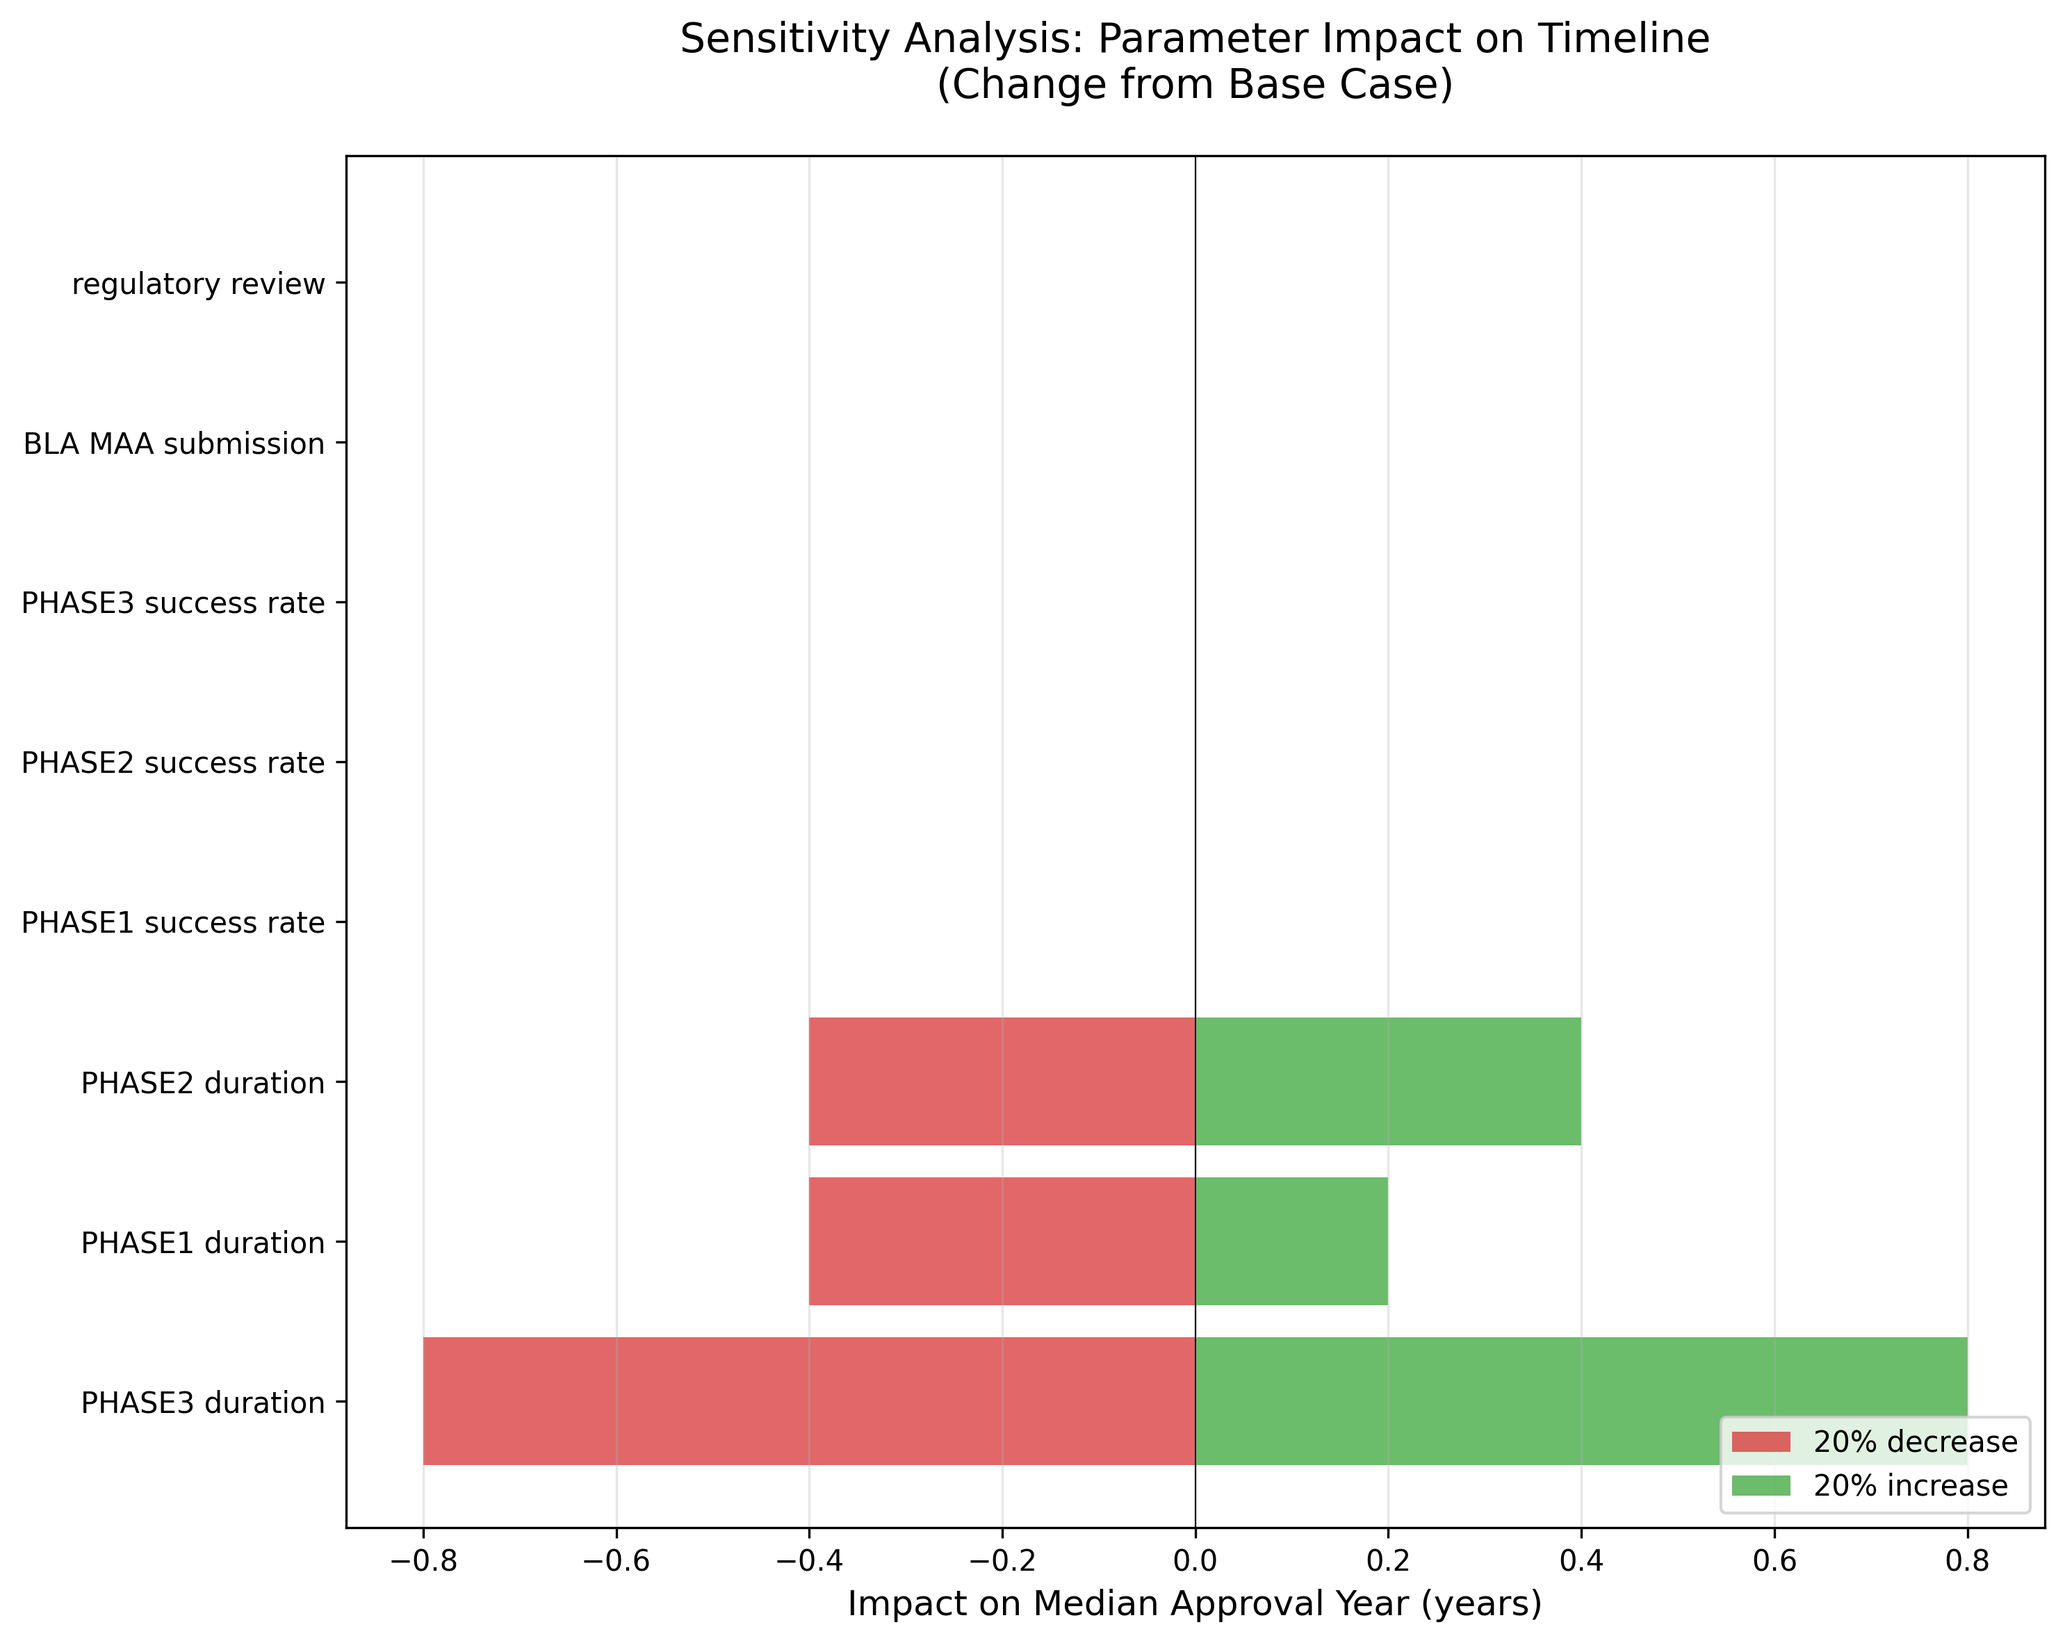
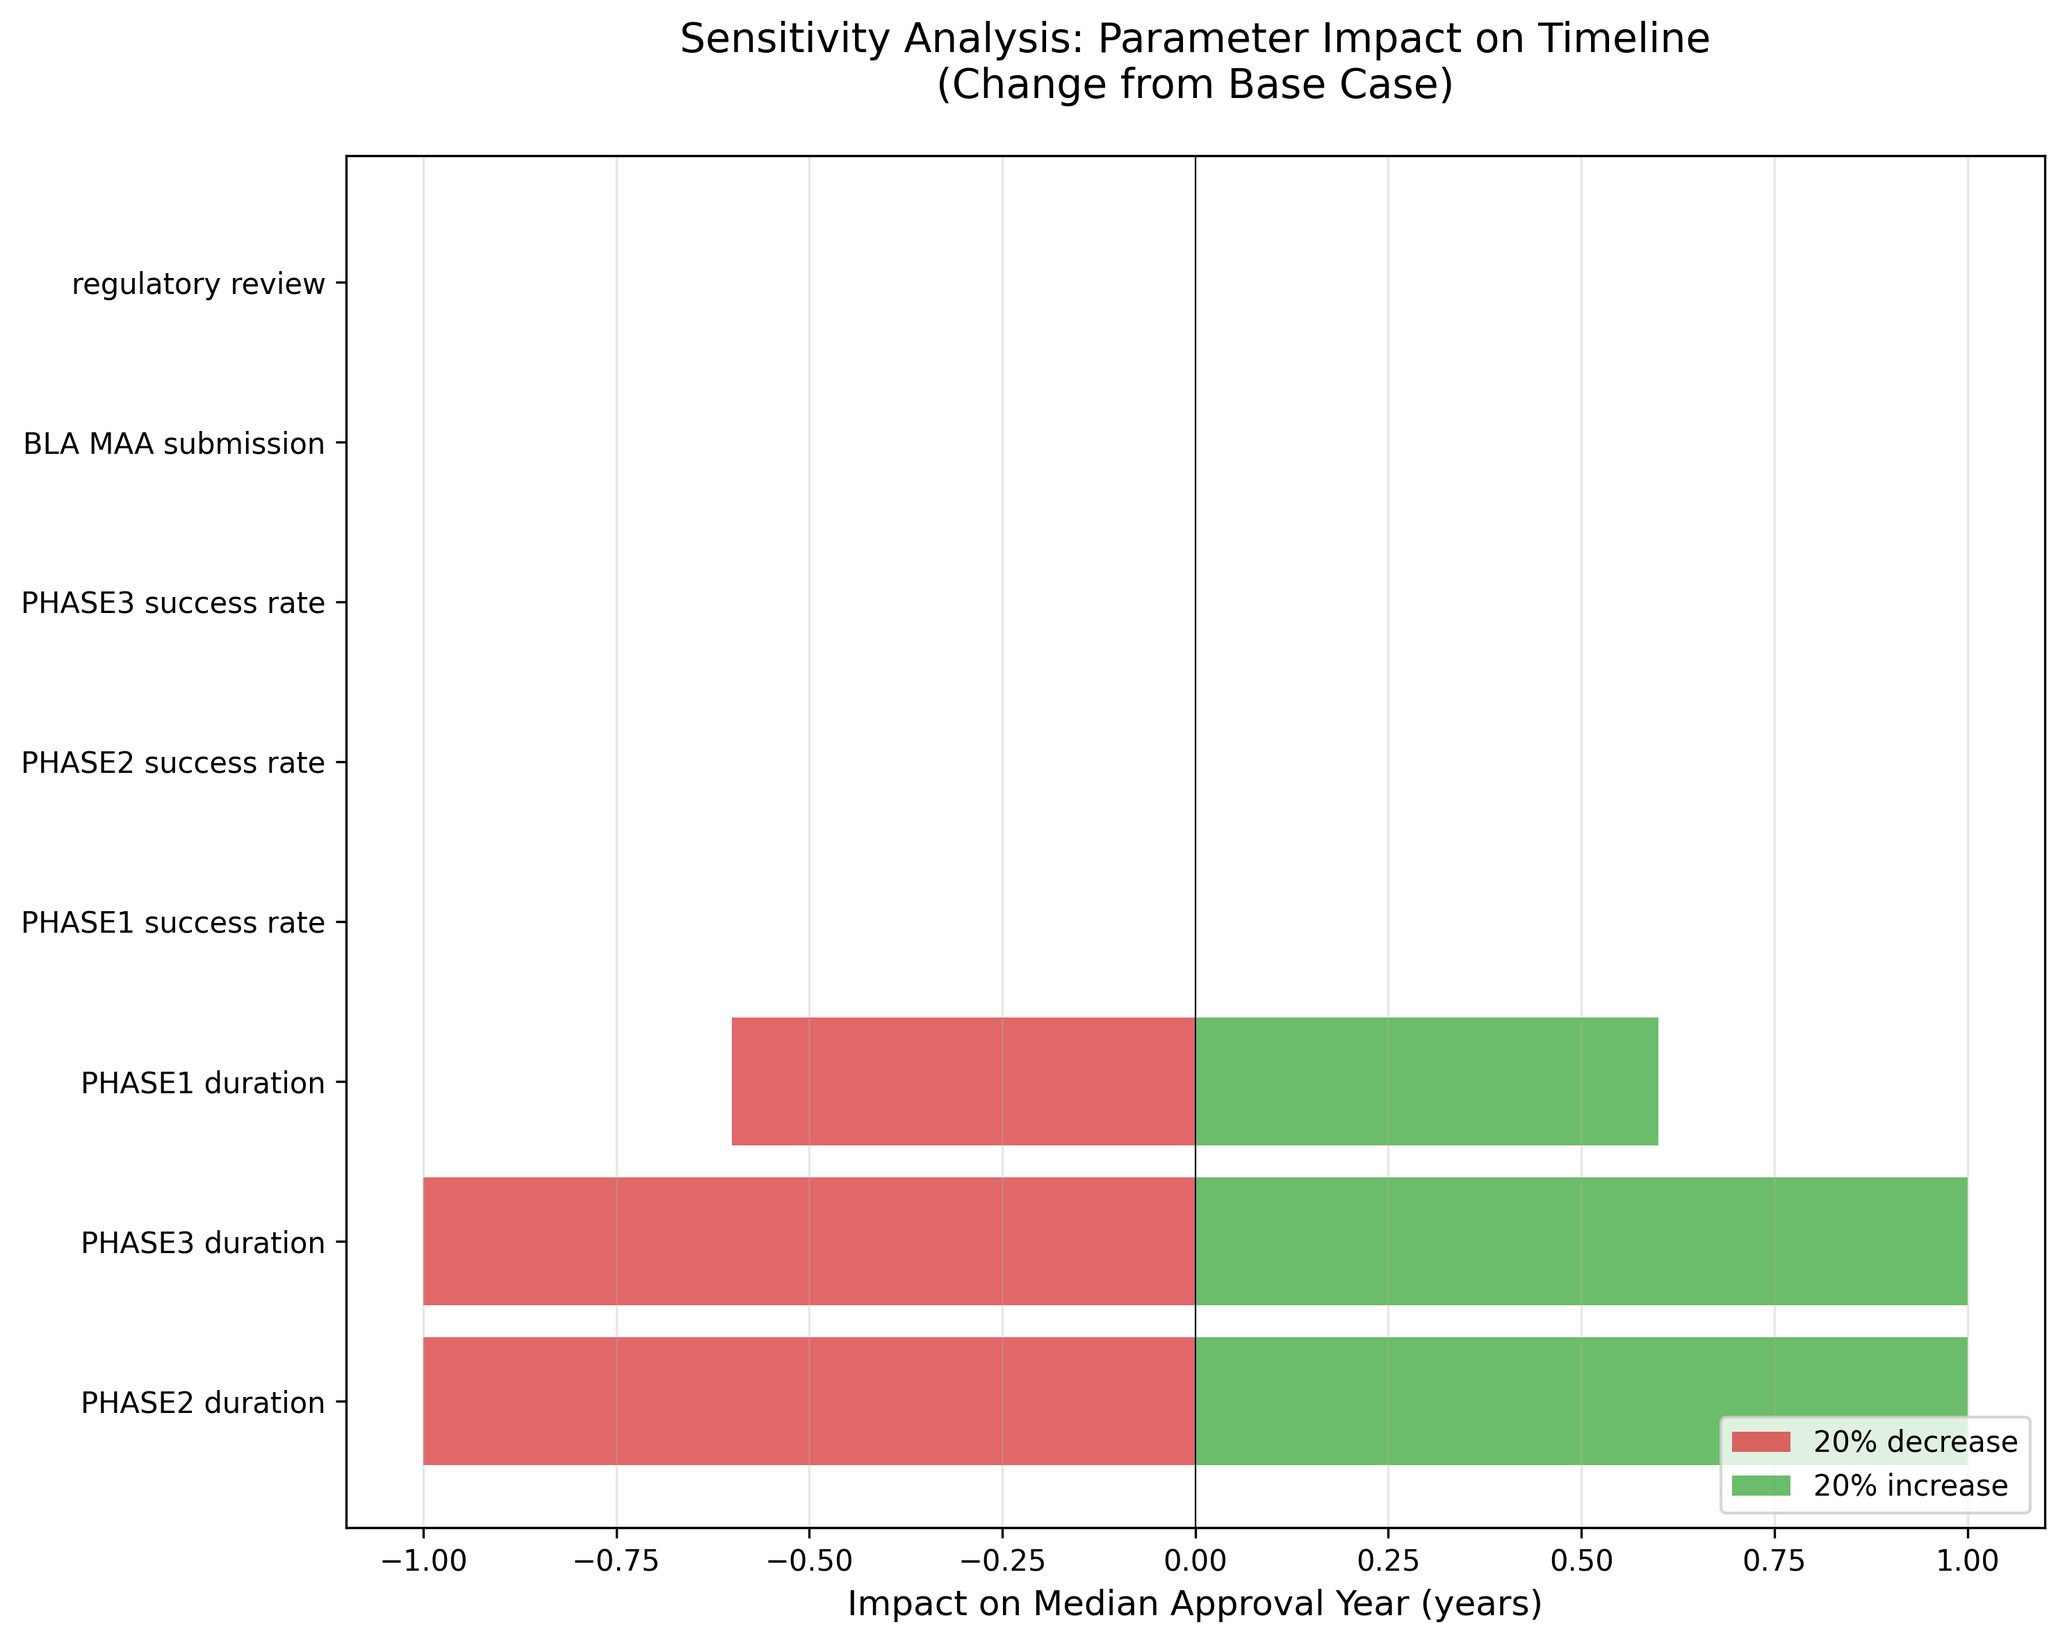
deploy: 12a192de851dc0dfdf225951b112af3d706e9f7b

diff --git a/public/report.html b/public/report.html
@@ -189,7 +189,7 @@
         </nav>
         
         <h1>網膜色素変性症（RP）治療開発ロードマップ</h1>
-<p>生成日時: 2026年03月29日 12:17</p>
+<p>生成日時: 2026年04月05日 08:35</p>
 <h2>エグゼクティブサマリー</h2>
 <p>本レポートは、網膜色素変性症（Retinitis Pigmentosa, RP）の治療法開発状況を定量的に分析し、効果的な治療法がいつ頃利用可能になるかを予測したものです。</p>
 <h3>主要な発見（米国FDA承認基準）</h3>
@@ -197,7 +197,7 @@
 <li><strong>最速の承認予測</strong>: 2026年（MCO-010光遺伝学治療）</li>
 <li>根拠: <a href="https://clinicaltrials.gov/study/NCT04945772" rel="noopener noreferrer" target="_blank">https://clinicaltrials.gov/study/NCT04945772</a></li>
 <li><strong>全体の中央値</strong>: 2037年（複数の治療法が利用可能になる時期）</li>
-<li><strong>現在アクティブな臨床試験</strong>: 59件（重要な完了試験含む）</li>
+<li><strong>現在アクティブな臨床試験</strong>: 60件（重要な完了試験含む）</li>
 <li><strong>成功率</strong>: Phase 1: 86.2%, Phase 2: 78.4%, Phase 3: 71.4%</li>
 </ul>
 <p>⚠ <strong>重要</strong>: 上記の予測は<strong>米国FDA承認</strong>を基準としています。<br/>
@@ -208,8 +208,8 @@
 <h3>臨床試験データ</h3>
 <ul>
 <li><strong>データソース</strong>: ClinicalTrials.gov</li>
-<li><strong>総試験数</strong>: 135件</li>
-<li><strong>アクティブな試験</strong>: 56件</li>
+<li><strong>総試験数</strong>: 136件</li>
+<li><strong>アクティブな試験</strong>: 57件</li>
 <li><strong>完了した試験</strong>: 52件</li>
 </ul>
 <h3>文献データ</h3>
@@ -283,9 +283,9 @@
 <td data-label="90%信頼区間（FDA）">[2026, 2027]</td>
 </tr>
 <tr>
-<td>NCT05203939</td>
-<td data-label="治療法名">Study to Assess the Safety and Efficacy ...</td>
-<td data-label="フェーズ">PHASE1, PHASE2</td>
+<td>NCT06388200</td>
+<td data-label="治療法名">A Phase 3 Study Of OCU400 Gene Therapy f...</td>
+<td data-label="フェーズ">PHASE3</td>
 <td data-label="スポンサー">Ocugen</td>
 <td data-label="成功率">100.0%</td>
 <td data-label="FDA承認予測（中央値）">2027年</td>
@@ -293,9 +293,9 @@
 <td data-label="90%信頼区間（FDA）">[2027, 2027]</td>
 </tr>
 <tr>
-<td>NCT06388200</td>
-<td data-label="治療法名">A Phase 3 Study Of OCU400 Gene Therapy f...</td>
-<td data-label="フェーズ">PHASE3</td>
+<td>NCT05203939</td>
+<td data-label="治療法名">Study to Assess the Safety and Efficacy ...</td>
+<td data-label="フェーズ">PHASE1, PHASE2</td>
 <td data-label="スポンサー">Ocugen</td>
 <td data-label="成功率">100.0%</td>
 <td data-label="FDA承認予測（中央値）">2027年</td>
@@ -307,7 +307,7 @@
 <td data-label="治療法名">Safety and Efficacy Study in Subjects Wi...</td>
 <td data-label="フェーズ">PHASE3</td>
 <td data-label="スポンサー">Spark Therapeutics, Inc.</td>
-<td data-label="成功率">71.5%</td>
+<td data-label="成功率">70.9%</td>
 <td data-label="FDA承認予測（中央値）">2030年</td>
 <td data-label="日本承認予測（中央値）">2035年</td>
 <td data-label="90%信頼区間（FDA）">[2029, 2031]</td>
@@ -337,7 +337,7 @@
 <td data-label="治療法名">Long-term Safety and Efficacy Follow-up ...</td>
 <td data-label="フェーズ">PHASE3</td>
 <td data-label="スポンサー">NightstaRx Ltd, a Biogen Company</td>
-<td data-label="成功率">70.9%</td>
+<td data-label="成功率">71.4%</td>
 <td data-label="FDA承認予測（中央値）">2033年</td>
 <td data-label="日本承認予測（中央値）">2038年</td>
 <td data-label="90%信頼区間（FDA）">[2032, 2034]</td>
@@ -347,7 +347,7 @@
 <td data-label="治療法名">Oral N-acetylcysteine for Retinitis Pigm...</td>
 <td data-label="フェーズ">PHASE3</td>
 <td data-label="スポンサー">Johns Hopkins University</td>
-<td data-label="成功率">71.6%</td>
+<td data-label="成功率">71.5%</td>
 <td data-label="FDA承認予測（中央値）">2033年</td>
 <td data-label="日本承認予測（中央値）">2038年</td>
 <td data-label="90%信頼区間（FDA）">[2032, 2034]</td>
@@ -357,7 +357,7 @@
 <td data-label="治療法名">A Multicenter, Randomized, Double-Blind,...</td>
 <td data-label="フェーズ">PHASE3</td>
 <td data-label="スポンサー">Zhongshan Ophthalmic Center, Sun Yat-sen University</td>
-<td data-label="成功率">72.1%</td>
+<td data-label="成功率">71.3%</td>
 <td data-label="FDA承認予測（中央値）">2033年</td>
 <td data-label="日本承認予測（中央値）">2038年</td>
 <td data-label="90%信頼区間（FDA）">[2032, 2034]</td>
@@ -367,7 +367,7 @@
 <td data-label="治療法名">24-Month Trial of NPI-001 for the Preser...</td>
 <td data-label="フェーズ">PHASE3</td>
 <td data-label="スポンサー">Nacuity Pharmaceuticals, Inc.</td>
-<td data-label="成功率">71.9%</td>
+<td data-label="成功率">70.8%</td>
 <td data-label="FDA承認予測（中央値）">2033年</td>
 <td data-label="日本承認予測（中央値）">2038年</td>
 <td data-label="90%信頼区間（FDA）">[2032, 2034]</td>
@@ -395,14 +395,14 @@
 <td data-label="遅延期間（中央値）">+2.1年</td>
 </tr>
 <tr>
-<td>NCT05203939</td>
+<td>NCT06388200</td>
 <td data-label="FDA承認予測">2027年</td>
 <td data-label="日本承認予測（中央値）"><strong>2032年</strong></td>
 <td data-label="日本承認90%信頼区間">[2031, 2033]</td>
 <td data-label="遅延期間（中央値）">+5.0年</td>
 </tr>
 <tr>
-<td>NCT06388200</td>
+<td>NCT05203939</td>
 <td data-label="FDA承認予測">2027年</td>
 <td data-label="日本承認予測（中央値）"><strong>2032年</strong></td>
 <td data-label="日本承認90%信頼区間">[2031, 2033]</td>
@@ -488,9 +488,9 @@
 <p><img alt="トルネード図" src="images/tornado.png"/></p>
 <h3>主要な影響要因</h3>
 <ul>
-<li><strong>PHASE3 duration</strong> (increase 20%): +0.8年の影響</li>
-<li><strong>PHASE2 duration</strong> (increase 20%): +0.4年の影響</li>
-<li><strong>PHASE1 duration</strong> (increase 20%): +0.2年の影響</li>
+<li><strong>PHASE2 duration</strong> (increase 20%): +1.0年の影響</li>
+<li><strong>PHASE3 duration</strong> (increase 20%): +1.0年の影響</li>
+<li><strong>PHASE1 duration</strong> (increase 20%): +0.6年の影響</li>
 </ul>
 <h2>4. 予測の可視化</h2>
 <h3>累積承認確率</h3>

diff --git a/public/updates.html b/public/updates.html
@@ -202,8 +202,8 @@
             <h1>更新履歴</h1>
 
             <div class="update-meta">
-                最終更新: <strong>2026-03-29</strong> |
-                最終チェック: <strong>2026-03-29</strong> |
+                最終更新: <strong>2026-04-04</strong> |
+                最終チェック: <strong>2026-04-04</strong> |
                 チェック方法: web_search (WebSearch tool)
             </div>
 
@@ -221,6 +221,13 @@
                     </thead>
                     <tbody>
                         
+                    <tr>
+                        <td><strong>Botaretigene</strong></td>
+                        <td>TBD</td>
+                        <td>TBD</td>
+                        <td>New</td>
+                        <td>2026-04-04</td>
+                    </tr>
                     <tr>
                         <td><strong>AAV-mVChR1</strong></td>
                         <td>Astellas Pharma/Tohoku University</td>
@@ -380,6 +387,26 @@
 
                 <div id="timeline">
                     
+            <section class="date-section">
+                <h3 class="date-header">2026年04月04日</h3>
+                <div class="update-cards">
+                    
+                <div class="update-card importance-low">
+                    <div class="update-card-header">
+                        <span class="badge badge-low">情報</span>
+                        <strong>Botaretigene</strong>
+                        <span class="company">(TBD)</span>
+                        <span class="phase-tag">TBD</span>
+                    </div>
+                    <div class="update-card-body">
+                        <p>Newly identified program</p>
+                    </div>
+                    <div class="update-card-footer">
+                        <span class="source">出典: Web search</span>
+                    </div>
+                </div>
+                </div>
+            </section>
             <section class="date-section">
                 <h3 class="date-header">2026年03月29日</h3>
                 <div class="update-cards">

diff --git a/public/index.html b/public/index.html
@@ -158,7 +158,7 @@
             
             <!-- 更新情報 -->
             <div class="update-info">
-                最終更新: 2026年3月29日 | データソース: ClinicalTrials.gov, PubMed |
+                最終更新: 2026年4月5日 | データソース: ClinicalTrials.gov, PubMed |
                 <a href="updates.html">更新履歴を見る</a>
             </div>
             

diff --git a/content/main/index.md b/content/main/index.md
@@ -1,6 +1,6 @@
 # 網膜色素変性症（RP）治療開発ロードマップ
 
-生成日時: 2026年03月29日 12:17
+生成日時: 2026年04月05日 08:35
 
 ## エグゼクティブサマリー
 
@@ -11,7 +11,7 @@
 - **最速の承認予測**: 2026年（MCO-010光遺伝学治療）
   - 根拠: https://clinicaltrials.gov/study/NCT04945772
 - **全体の中央値**: 2037年（複数の治療法が利用可能になる時期）
-- **現在アクティブな臨床試験**: 59件（重要な完了試験含む）
+- **現在アクティブな臨床試験**: 60件（重要な完了試験含む）
 - **成功率**: Phase 1: 86.2%, Phase 2: 78.4%, Phase 3: 71.4%
 
 ⚠ **重要**: 上記の予測は**米国FDA承認**を基準としています。
@@ -23,8 +23,8 @@
 
 ### 臨床試験データ
 - **データソース**: ClinicalTrials.gov
-- **総試験数**: 135件
-- **アクティブな試験**: 56件
+- **総試験数**: 136件
+- **アクティブな試験**: 57件
 - **完了した試験**: 52件
 
 ### 文献データ
@@ -55,15 +55,15 @@
 | 試験ID | 治療法名 | フェーズ | スポンサー | 成功率 | FDA承認予測（中央値） | 日本承認予測（中央値） | 90%信頼区間（FDA） |
 |--------|----------|----------|------------|--------|---------------------|---------------------|------------------|
 | NCT04945772 | Efficacy and Safety of MCO-010 Optogenet... | PHASE2 | Nanoscope Therapeutics Inc. | 100.0% | 2026年 | 2029年 | [2026, 2027] |
-| NCT05203939 | Study to Assess the Safety and Efficacy ... | PHASE1, PHASE2 | Ocugen | 100.0% | 2027年 | 2032年 | [2027, 2027] |
 | NCT06388200 | A Phase 3 Study Of OCU400 Gene Therapy f... | PHASE3 | Ocugen | 100.0% | 2027年 | 2032年 | [2027, 2027] |
-| NCT00999609 | Safety and Efficacy Study in Subjects Wi... | PHASE3 | Spark Therapeutics, Inc. | 71.5% | 2030年 | 2035年 | [2029, 2031] |
+| NCT05203939 | Study to Assess the Safety and Efficacy ... | PHASE1, PHASE2 | Ocugen | 100.0% | 2027年 | 2032年 | [2027, 2027] |
+| NCT00999609 | Safety and Efficacy Study in Subjects Wi... | PHASE3 | Spark Therapeutics, Inc. | 70.9% | 2030年 | 2035年 | [2029, 2031] |
 | NCT07174726 | A Phase 2 Open-label Study to Evaluate t... | PHASE2 | Beacon Therapeutics | 100.0% | 2030年 | 2035年 | [2029, 2030] |
 | NCT04850118 | A Clinical Trial Evaluating the Safety a... | PHASE2, PHASE3 | Beacon Therapeutics | 100.0% | 2030年 | 2035年 | [2029, 2030] |
-| NCT03584165 | Long-term Safety and Efficacy Follow-up ... | PHASE3 | NightstaRx Ltd, a Biogen Company | 70.9% | 2033年 | 2038年 | [2032, 2034] |
-| NCT05537220 | Oral N-acetylcysteine for Retinitis Pigm... | PHASE3 | Johns Hopkins University | 71.6% | 2033年 | 2038年 | [2032, 2034] |
-| NCT07082855 | A Multicenter, Randomized, Double-Blind,... | PHASE3 | Zhongshan Ophthalmic Center, Sun Yat-sen University | 72.1% | 2033年 | 2038年 | [2032, 2034] |
-| NCT07290530 | 24-Month Trial of NPI-001 for the Preser... | PHASE3 | Nacuity Pharmaceuticals, Inc. | 71.9% | 2033年 | 2038年 | [2032, 2034] |
+| NCT03584165 | Long-term Safety and Efficacy Follow-up ... | PHASE3 | NightstaRx Ltd, a Biogen Company | 71.4% | 2033年 | 2038年 | [2032, 2034] |
+| NCT05537220 | Oral N-acetylcysteine for Retinitis Pigm... | PHASE3 | Johns Hopkins University | 71.5% | 2033年 | 2038年 | [2032, 2034] |
+| NCT07082855 | A Multicenter, Randomized, Double-Blind,... | PHASE3 | Zhongshan Ophthalmic Center, Sun Yat-sen University | 71.3% | 2033年 | 2038年 | [2032, 2034] |
+| NCT07290530 | 24-Month Trial of NPI-001 for the Preser... | PHASE3 | Nacuity Pharmaceuticals, Inc. | 70.8% | 2033年 | 2038年 | [2032, 2034] |
 
 
 ### 日本での承認予測
@@ -73,8 +73,8 @@
 | 治療法 | FDA承認予測 | 日本承認予測（中央値） | 日本承認90%信頼区間 | 遅延期間（中央値） |
 |--------|------------|---------------------|-------------------|---------------------|
 | NCT04945772 | 2026年 | **2029年** | [2028, 2029] | +2.1年 |
-| NCT05203939 | 2027年 | **2032年** | [2031, 2033] | +5.0年 |
 | NCT06388200 | 2027年 | **2032年** | [2031, 2033] | +5.0年 |
+| NCT05203939 | 2027年 | **2032年** | [2031, 2033] | +5.0年 |
 | NCT00999609 | 2030年 | **2035年** | [2034, 2036] | +5.0年 |
 | NCT07174726 | 2030年 | **2035年** | [2034, 2036] | +5.0年 |
 | NCT04850118 | 2030年 | **2035年** | [2034, 2036] | +5.0年 |
@@ -114,9 +114,9 @@
 ![トルネード図](images/tornado.png)
 
 ### 主要な影響要因
-- **PHASE3 duration** (increase 20%): +0.8年の影響
-- **PHASE2 duration** (increase 20%): +0.4年の影響
-- **PHASE1 duration** (increase 20%): +0.2年の影響
+- **PHASE2 duration** (increase 20%): +1.0年の影響
+- **PHASE3 duration** (increase 20%): +1.0年の影響
+- **PHASE1 duration** (increase 20%): +0.6年の影響
 
 
 ## 4. 予測の可視化
